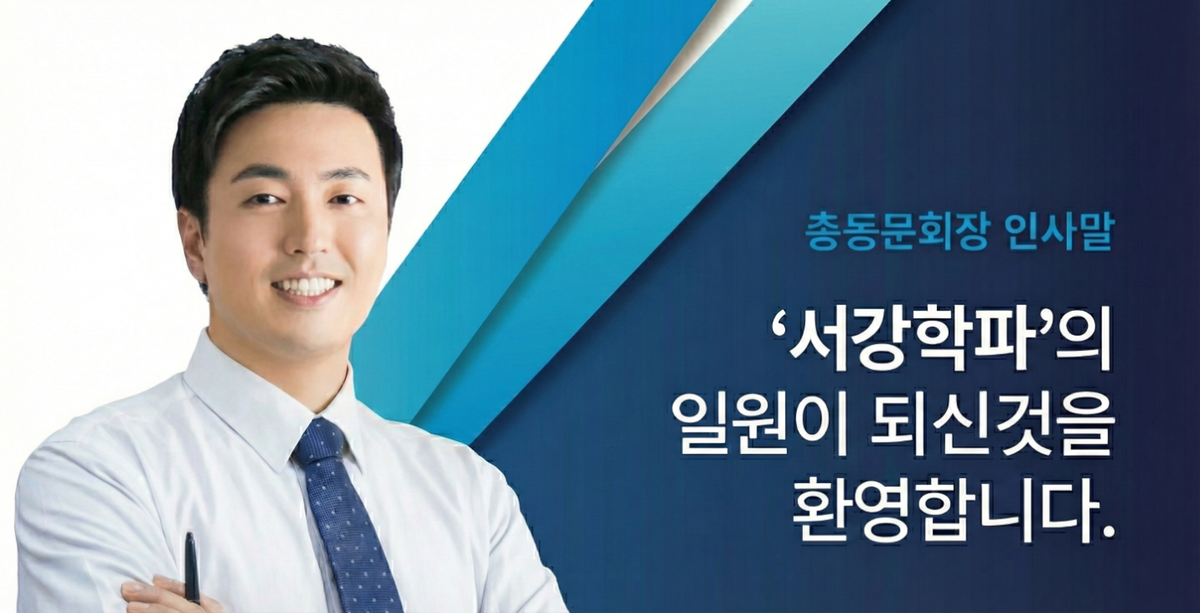
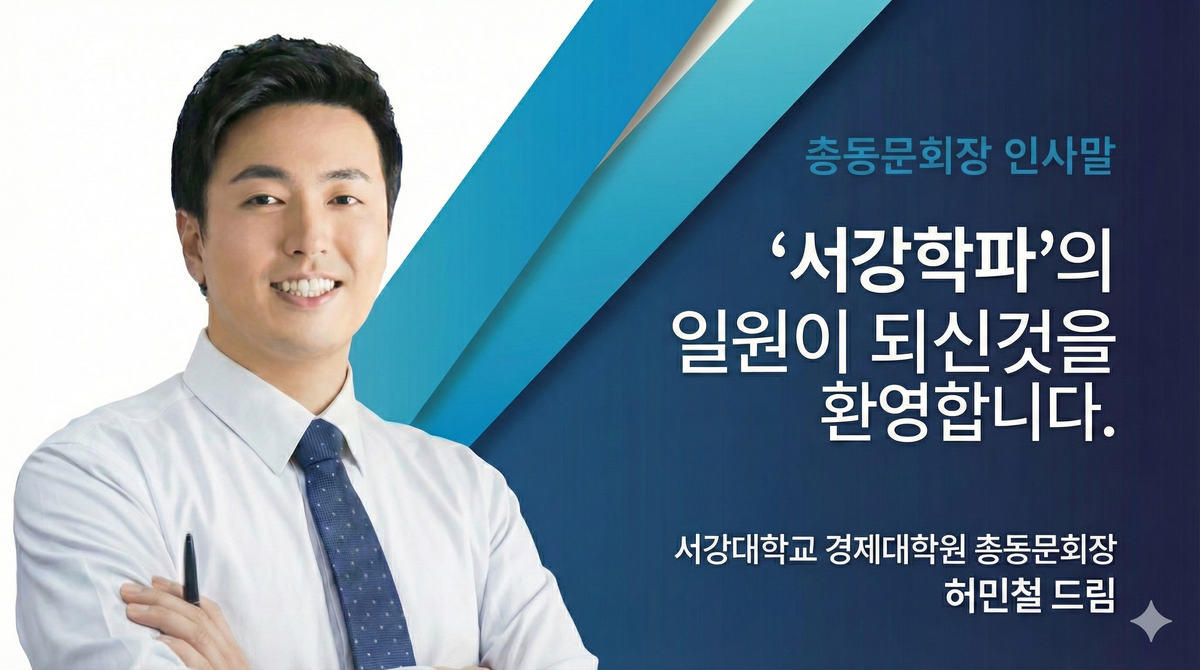
feat(web): 인사말 카드 분리 및 대학원장 페이지 추가

diff --git a/apps/web/components/home/greeting-card.tsx b/apps/web/components/home/greeting-card.tsx
@@ -2,58 +2,64 @@ import Image from 'next/image';
 import Link from 'next/link';
 import React from 'react';
 
+type GreetingCard = {
+  title: string;
+  href: string;
+  imageSrc: string;
+  imageAlt: string;
+  imageWidth: number;
+  imageHeight: number;
+};
+
+const GREETING_CARDS: GreetingCard[] = [
+  {
+    title: '총동문회장 인사말',
+    href: '/about/greeting',
+    imageSrc: '/images/about/greeting-card.webp',
+    imageAlt: '총동문회장 인사말 이미지 미리보기',
+    imageWidth: 1200,
+    imageHeight: 670
+  },
+  {
+    title: '대학원장 인사말',
+    href: '/about/dean-greeting',
+    imageSrc: '/images/about/greeting-dean-card.webp',
+    imageAlt: '대학원장 인사말 이미지 미리보기',
+    imageWidth: 1200,
+    imageHeight: 670
+  }
+];
+
 /**
- * 홈 페이지 동문회장 인사말 섹션
- * /about/greeting 페이지로 연결되는 카드
+ * 홈 페이지 인사말 섹션
+ * 인사말 페이지로 연결되는 카드 (모바일: 세로, 데스크톱: 2열)
  */
 export function HomeGreetingCard() {
   return (
     <section aria-labelledby="home-greeting" className="mt-8">
-      <div className="flex items-center justify-between mb-4">
-        <h2 id="home-greeting" className="font-kopub text-base text-neutral-ink">
-          동문회장 인사말
-        </h2>
-        <Link
-          href="/about/greeting"
-          className="flex items-center justify-center w-8 h-8 rounded-full bg-brand-primary hover:bg-brand-primaryDark transition-colors"
-          aria-label="동문회장 인사말 전체 보기"
-        >
-          <svg className="w-5 h-5 text-white" viewBox="0 0 20 20" fill="none" stroke="currentColor" strokeWidth="2">
-            <path d="M5 10h10M10 5l5 5-5 5" />
-          </svg>
-        </Link>
-      </div>
+      <h2 id="home-greeting" className="sr-only">
+        인사말
+      </h2>
 
-      <Link
-        href="/about/greeting"
-        aria-label="동문회장 인사말 보기"
-        className="block overflow-hidden border border-neutral-border rounded-xl hover:bg-neutral-surface/50 transition-colors"
-      >
-        <div className="p-5 md:p-6">
-          <div className="relative overflow-hidden rounded-xl bg-white p-3 md:p-4">
-            <div className="md:hidden">
-              <Image
-                src="/images/about/greeting-card.png"
-                alt="총동문회장 인사말 이미지 미리보기"
-                width={1200}
-                height={613}
-                className="h-auto w-full object-contain"
-                sizes="100vw"
-              />
-            </div>
-            <div className="hidden md:block">
-              <Image
-                src="/images/about/greeting-card-desktop.png"
-                alt="총동문회장 인사말 이미지 미리보기"
-                width={1200}
-                height={320}
-                className="h-auto w-full object-contain"
-                sizes="(min-width: 1024px) 896px, 100vw"
-              />
-            </div>
-          </div>
-        </div>
-      </Link>
+      <div className="grid gap-4 md:grid-cols-2">
+        {GREETING_CARDS.map((card) => (
+          <Link
+            key={card.title}
+            href={card.href}
+            aria-label={card.title}
+            className="block overflow-hidden rounded-xl focus-visible:outline-none focus-visible:ring-2 focus-visible:ring-brand-primary focus-visible:ring-offset-2"
+          >
+            <Image
+              src={card.imageSrc}
+              alt={card.imageAlt}
+              width={card.imageWidth}
+              height={card.imageHeight}
+              className="h-auto w-full object-contain"
+              sizes="(min-width: 768px) 50vw, 100vw"
+            />
+          </Link>
+        ))}
+      </div>
     </section>
   );
 }

diff --git a/apps/web/app/about/dean-greeting/page.tsx b/apps/web/app/about/dean-greeting/page.tsx
@@ -1,0 +1,65 @@
+import React from 'react';
+import { AboutHero } from '../../../components/about-hero';
+
+// 정적 페이지: 1시간 ISR 캐싱
+export const revalidate = 3600;
+
+const focusAreas = [
+  {
+    title: '동문 네트워크 확장',
+    body: '재학생과 동문이 함께 성장할 수 있도록 멘토링과 공동 프로젝트를 정례화하겠습니다.'
+  },
+  {
+    title: '실무-학문 연결',
+    body: '산업 현장과 연구 성과가 유기적으로 연결되도록 산학 협력 프로그램을 강화하겠습니다.'
+  },
+  {
+    title: '지속 가능한 리더십',
+    body: '윤리·ESG 관점의 리더십 교육을 확대해 사회에 기여하는 동문 리더를 키우겠습니다.'
+  }
+];
+
+export default function DeanGreetingPage() {
+  return (
+    <div className="about-page">
+      <AboutHero
+        title="대학원장 인사말"
+        description="경제대학원장으로서 동문과 재학생이 함께 배우고 성장하는 공동체를 만들기 위해 최선을 다하겠습니다."
+        image={{ src: '/images/about/greeting-hero.svg', alt: '경제대학원 캠퍼스 풍경 삽화', priority: true }}
+      />
+
+      <section aria-labelledby="dean-greeting-vision" className="about-section">
+        <div className="about-section__content">
+          <h2 id="dean-greeting-vision" className="about-section__heading">
+            함께 만들어가는 교육 플랫폼
+          </h2>
+          <p>
+            경제대학원은 변화하는 산업 환경 속에서 실무와 학문을 연결하는 교육을 지속해 왔습니다. 앞으로는 총동문회와의
+            협력을 확대해 동문 네트워크를 교육과 연구로 연결하고, 재학생의 역량을 현장에서 바로 발휘할 수 있도록
+            지원하겠습니다.
+          </p>
+          <p>
+            여러분의 경험과 제안을 학교의 성장 동력으로 삼아, 동문이 자부심을 느끼는 교육 플랫폼을 함께 만들어가겠습니다.
+          </p>
+        </div>
+      </section>
+
+      <section aria-labelledby="dean-greeting-focus" className="about-section about-section--stacked">
+        <div className="about-section__content">
+          <h2 id="dean-greeting-focus" className="about-section__heading">
+            핵심 추진 방향
+          </h2>
+          <p>교육 혁신과 동문 네트워크 강화를 위한 세 가지 축을 제시합니다.</p>
+        </div>
+        <ul className="about-section__list" aria-label="대학원장 인사말 핵심 방향 목록">
+          {focusAreas.map((item) => (
+            <li key={item.title} className="about-section__card">
+              <h3 className="about-section__card-title">{item.title}</h3>
+              <p>{item.body}</p>
+            </li>
+          ))}
+        </ul>
+      </section>
+    </div>
+  );
+}

diff --git a/apps/web/__tests__/about-pages.test.tsx b/apps/web/__tests__/about-pages.test.tsx
@@ -13,7 +13,8 @@ vi.mock('../components/lazy', () => ({
   LazyDrawerMenu: ({ onClose }: { onClose: () => void }) => (
     <nav aria-label="전체 메뉴">
       <button type="button" onClick={onClose}>닫기</button>
-      <a href="/about/greeting">회장 인사말</a>
+      <a href="/about/greeting">총동문회장 인사말</a>
+      <a href="/about/dean-greeting">대학원장 인사말</a>
       <a href="/about/org">조직도</a>
       <a href="/about/history">역대 회장단</a>
       <a href="/faq">FAQ</a>
@@ -36,7 +37,7 @@ afterEach(() => {
 describe('About static pages', () => {
   it('renders greeting page hero and sections', () => {
     const { asFragment } = render(<GreetingPage />);
-    expect(screen.getByRole('heading', { level: 1 })).toHaveTextContent('회장 인사말');
+    expect(screen.getByRole('heading', { level: 1 })).toHaveTextContent('총동문회장 인사말');
     expect(screen.getByLabelText('총동문회 비전 다이어그램')).toBeInTheDocument();
     expect(screen.getByRole('heading', { name: '디지털 허브 완성' })).toBeInTheDocument();
     expect(screen.getByRole('list', { name: '총동문회 운영 원칙 목록' })).toBeInTheDocument();
@@ -74,7 +75,8 @@ describe('SiteHeader navigation', () => {
 
     expect(toggleButton).toHaveAttribute('aria-expanded', 'true');
     const drawerNav = screen.getByLabelText('전체 메뉴');
-    expect(within(drawerNav).getByRole('link', { name: '회장 인사말' })).toHaveAttribute('href', '/about/greeting');
+    expect(within(drawerNav).getByRole('link', { name: '총동문회장 인사말' })).toHaveAttribute('href', '/about/greeting');
+    expect(within(drawerNav).getByRole('link', { name: '대학원장 인사말' })).toHaveAttribute('href', '/about/dean-greeting');
     expect(within(drawerNav).getByRole('link', { name: '조직도' })).toHaveAttribute('href', '/about/org');
     expect(within(drawerNav).getByRole('link', { name: '역대 회장단' })).toHaveAttribute('href', '/about/history');
     expect(within(drawerNav).getByRole('link', { name: 'FAQ' })).toHaveAttribute('href', '/faq');

diff --git a/apps/web/app/about/greeting/page.tsx b/apps/web/app/about/greeting/page.tsx
@@ -24,7 +24,7 @@ export default function GreetingPage() {
   return (
     <div className="about-page">
       <AboutHero
-        title="회장 인사말"
+        title="총동문회장 인사말"
         description="총동문회 16대 회장 김서강입니다. 2025년 웹 서비스 런치와 함께, 동문 누구나 쉽게 소식을 접하고 의견을 나눌 수 있는 열린 커뮤니티를 만들겠습니다."
         image={{ src: '/images/about/greeting-hero.svg', alt: '총동문회 서강대 캠퍼스 풍경 삽화', priority: true }}
       />
@@ -75,6 +75,7 @@ export default function GreetingPage() {
           ))}
         </ul>
       </section>
+
     </div>
   );
 }

diff --git a/apps/web/__tests__/home-quick-actions.test.tsx b/apps/web/__tests__/home-quick-actions.test.tsx
@@ -20,7 +20,7 @@ describe('Home Quick Actions', () => {
   it('includes greeting preview card', () => {
     renderWithProviders(<HomePage />);
     // Check greeting call-to-action
-    expect(screen.getByRole('heading', { name: '동문회장 인사말' })).toBeInTheDocument();
-    expect(screen.getByRole('link', { name: '동문회장 인사말 전체 보기' })).toHaveAttribute('href', '/about/greeting');
+    expect(screen.getByRole('link', { name: '총동문회장 인사말' })).toHaveAttribute('href', '/about/greeting');
+    expect(screen.getByRole('link', { name: '대학원장 인사말' })).toHaveAttribute('href', '/about/dean-greeting');
   });
 });

diff --git a/apps/web/components/site-header.tsx b/apps/web/components/site-header.tsx
@@ -10,7 +10,8 @@ import { logoutAll } from '../services/auth';
 import { HeaderDropdown } from './header-dropdown';
 
 const ABOUT_ITEMS = [
-  { href: '/about/greeting', label: '인사말' },
+  { href: '/about/greeting', label: '총동문회장 인사말' },
+  { href: '/about/dean-greeting', label: '대학원장 인사말' },
   { href: '/about/org', label: '조직도' },
   { href: '/about/history', label: '연혁' },
   { href: '/posts?category=notice', label: '공지사항' },

diff --git a/apps/web/components/drawer-menu.tsx b/apps/web/components/drawer-menu.tsx
@@ -12,7 +12,8 @@ type LinkItem = {
 };
 
 const ABOUT_LINKS: LinkItem[] = [
-  { href: '/about/greeting', label: '인사말' },
+  { href: '/about/greeting', label: '총동문회장 인사말' },
+  { href: '/about/dean-greeting', label: '대학원장 인사말' },
   { href: '/about/org', label: '조직도' },
   { href: '/about/history', label: '연혁' },
   { href: '/posts?category=notice', label: '공지사항' }

diff --git a/apps/web/__tests__/site-header-drawer.test.tsx b/apps/web/__tests__/site-header-drawer.test.tsx
@@ -10,7 +10,8 @@ vi.mock('../components/lazy', () => ({
   LazyDrawerMenu: () => (
     <nav aria-label="전체 메뉴">
       <a href="/faq">FAQ</a>
-      <a href="/about/greeting">인사말</a>
+      <a href="/about/greeting">총동문회장 인사말</a>
+      <a href="/about/dean-greeting">대학원장 인사말</a>
     </nav>
   ),
 }));

diff --git a/apps/web/app/layout.tsx b/apps/web/app/layout.tsx
@@ -99,7 +99,6 @@ export default async function RootLayout({
             {children}
           </main>
           <footer className="site-footer" role="contentinfo">
-            Public alumni app scaffold — local use only for now.
           </footer>
         </Providers>
       </body>

diff --git a/apps/web/app/page.tsx b/apps/web/app/page.tsx
@@ -29,7 +29,7 @@ export default function HomePage() {
         <HomeNoticeList />
       </div>
 
-      {/* 동문회장 인사말 */}
+      {/* 인사말 */}
       <HomeGreetingCard />
     </div>
   );

diff --git a/docs/worklog.md b/docs/worklog.md
@@ -1073,3 +1073,4 @@
 2025-12-16 feat(web): 홈 동문회장 인사말 카드 이미지 적용 — PR draft
 2025-12-28 fix(ci): pnpm 캐시 오류 방지 위해 워크플로우 setup-node 전에 pnpm 설치 순서로 조정 — PR #104
 2025-12-28 fix(ci): pnpm 해석 스크립트에서 engines.pnpm 실패 구분 및 npm view 오류 출력 정리 — PR #104
+2025-12-30 feat(web): 인사말 카드 분리 및 대학원장 페이지 추가 — PR draft

diff --git a/docs/dev_log_251230.md b/docs/dev_log_251230.md
@@ -1,0 +1,7 @@
+# 2025-12-30
+
+- Added: 대학원장 인사말 분리 페이지(/about/dean-greeting) 구성
+- Changed: 홈 인사말 카드 2개 분리 및 이미지 WebP 적용
+- Changed: 헤더/드로어 인사말 메뉴를 총동문회장·대학원장으로 분리
+- Changed: 앱 소개/manifest 문구 정리 및 PWA 이름 한글화
+- Notes: 홈 인사말 카드 UI 간소화(텍스트/박스 제거)
